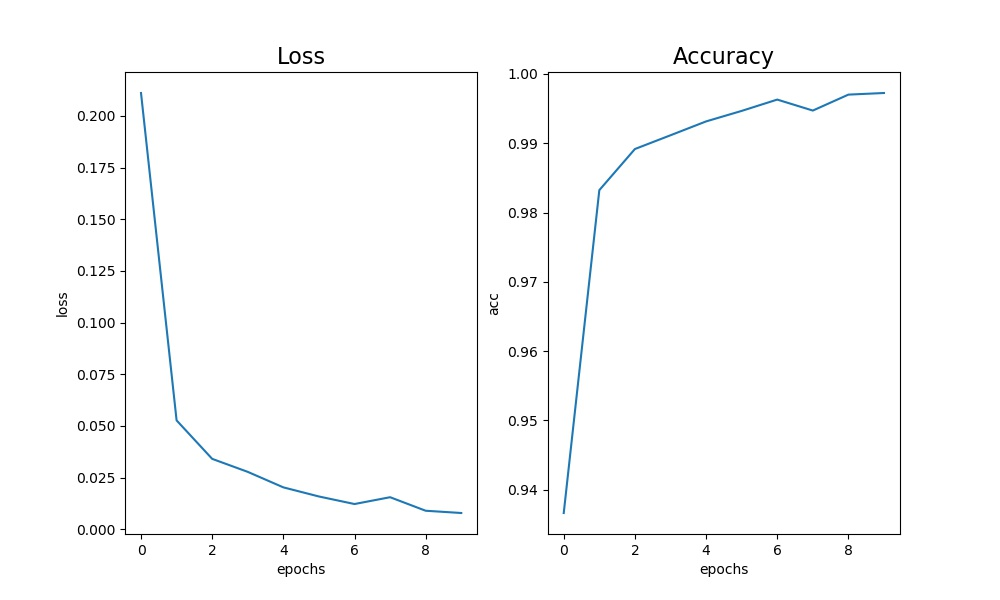
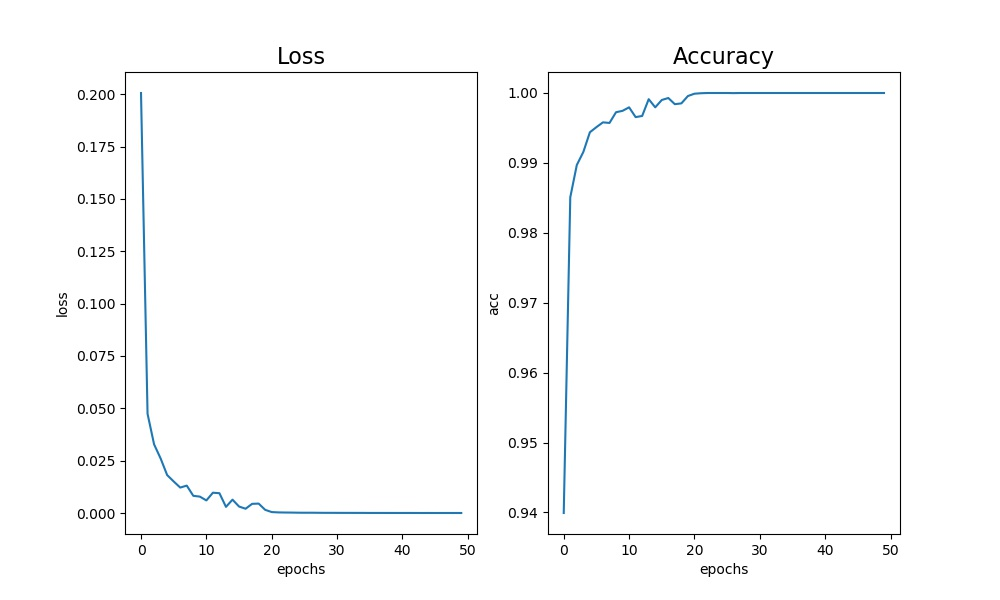
新增注释

diff --git a/src/main.py b/src/main.py
@@ -88,7 +88,7 @@ def visualize_loss_acc(loss_hist, acc_hist):
 
 def eval_loop(model, device, dataloader):
     '''
-    测试
+    测试训练好的模型在测试中运行时间
     '''
     pass
     model.to(device)
@@ -114,7 +114,7 @@ def eval_loop(model, device, dataloader):
 
 
 def main():
-    epochs = 10
+    epochs = 50
     batch_size = 512
 
     model = MyMnistNet()
@@ -157,14 +157,14 @@ def main():
     # 损失及识别率显示
     visualize_loss_acc(loss_hist, acc_hist)
 
-    # # 测试
-    # model.load_state_dict(model_state_dict)
-    # # 测试集搞什么 shuffle，吐血三升
-    # test_loader = torch.utils.data.DataLoader(datasetTest, 
-    #     batch_size=512, shuffle=False, num_workers=2)
+    # 测试
+    model.load_state_dict(model_state_dict)
+    # 测试集搞什么 shuffle，吐血三升
+    test_loader = torch.utils.data.DataLoader(datasetTest, 
+        batch_size=512, shuffle=False, num_workers=2)
         
-    # test_loop(epochs, model, optimizer, scheduler, criterion, device, test_loader)
-
+    
+    result = eval_loop(model, device, test_loader)
 
     # 保存模型
     save_model = torch.jit.trace(model,  torch.rand(1, 1, 28, 28).to(device))
